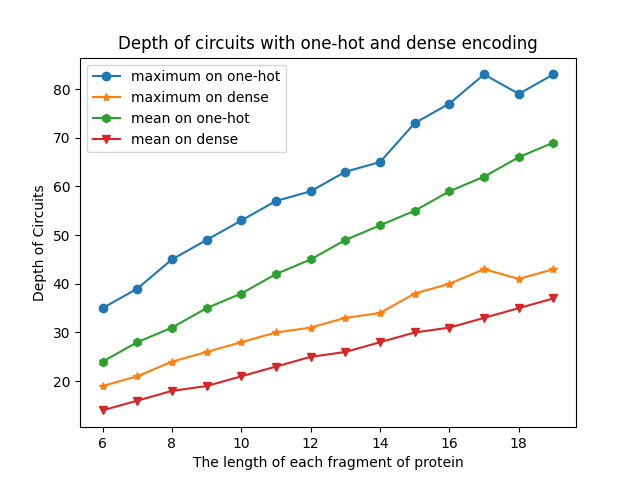
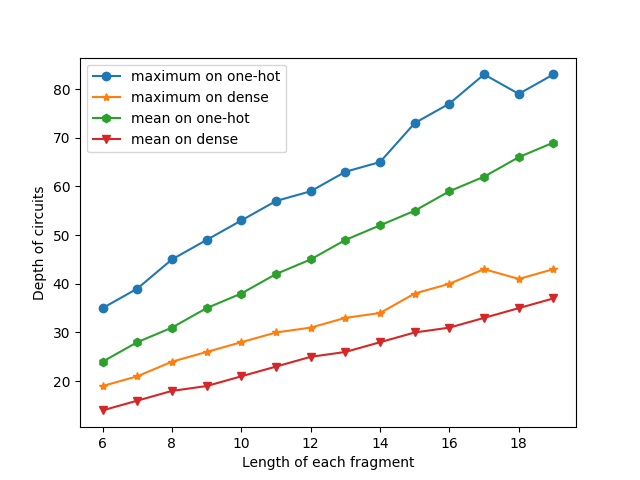
update figure

Changed region(s): [[0.1875, 0.0625, 0.8438, 0.125], [0.3125, 0.9375, 0.7188, 1.0], [0.0312, 0.4062, 0.0938, 0.625]]

diff --git a/plot/plot_compare_qubits.py b/plot/plot_compare_qubits.py
@@ -8,9 +8,9 @@ def plot_qubits(dense_qubits, one_hot_qubits, output_file):
     plt.plot(x, dense_qubits[0], marker='*', label='maximum on dense')
     plt.plot(x, one_hot_qubits[1], marker='h', label='mean on one-hot')
     plt.plot(x, dense_qubits[1], marker="v", label="mean on dense")
-    plt.xlabel("the length of each fragment of protein")
-    plt.ylabel("the number of qubits")
-    plt.title("the required number of gates with one-hot and dense encoding")
+    plt.xlabel("Length of each fragment")
+    plt.ylabel("Number of qubits")
+    # plt.title("the required number of gates with one-hot and dense encoding")
     plt.legend()
     plt.savefig(output_file)
 

diff --git a/plot/plot_gates.py b/plot/plot_gates.py
@@ -8,9 +8,9 @@ def plot_gates(max_depth, mean_depth, output_file):
     plt.plot(x, max_depth[1], marker='*', label='maximum on dense')
     plt.plot(x, mean_depth[0], marker='h', label='mean on one-hot')
     plt.plot(x, mean_depth[1], marker='v', label='mean on dense')
-    plt.xlabel("The length of each fragment of protein")
-    plt.ylabel("Total Gates of Circuits")
-    plt.title("Total Gates of circuits with one-hot and dense encoding")
+    plt.xlabel("Length of each fragment")
+    plt.ylabel("Gates of circuits")
+    # plt.title("Total Gates of circuits with one-hot and dense encoding")
     plt.legend()
     # plt.show()
     plt.savefig(output_file)

diff --git a/plot/plot_depth.py b/plot/plot_depth.py
@@ -8,9 +8,9 @@ def plot_gates(max_depth, mean_depth, output_file):
     plt.plot(x, max_depth[1], marker='*', label='maximum on dense')
     plt.plot(x, mean_depth[0], marker='h', label='mean on one-hot')
     plt.plot(x, mean_depth[1], marker='v', label='mean on dense')
-    plt.xlabel("The length of each fragment of protein")
-    plt.ylabel("Depth of Circuits")
-    plt.title("Depth of circuits with one-hot and dense encoding")
+    plt.xlabel("Length of each fragment")
+    plt.ylabel("Depth of circuits")
+    # plt.title("Depth of circuits with one-hot and dense encoding")
     plt.legend()
     # plt.show()
     plt.savefig(output_file)

diff --git a/plot/plot_compare_distribution_8.py b/plot/plot_compare_distribution_8.py
@@ -24,9 +24,9 @@ def plot_qubits(dense_dict, one_hot_dict, output_file):
 
     plt.bar(x, one_hot_sequence, label='one-hot')
     plt.bar(x, dense_sequence, bottom=one_hot_sequence, label='dense')
-    plt.xlabel("The number of qubits")
-    plt.ylabel("The number of sequences")
-    plt.title("The number of sequences for each fragment length of 8")
+    plt.xlabel("Number of qubits")
+    plt.ylabel("Number of sequences")
+    # plt.title("The number of sequences for each fragment length of 8")
     plt.legend()
     plt.savefig(output_file)
 

diff --git a/plot/plot_compare_value.py b/plot/plot_compare_value.py
@@ -43,7 +43,7 @@ def plot_dense(opt_data_name, exact_data_name, n, output_file):
 	plt.plot(range(max_value), range(max_value), color='r', label="exact value")
 	plt.xlabel("Exact minimal value")
 	plt.ylabel("Optimal minimal value")
-	plt.title("Each amino acid sequence with length of %i" % n)
+	# plt.title("Each amino acid sequence with length of %i" % n)
 	plt.legend()
 	# plt.show()
 	plt.savefig(output_file)
